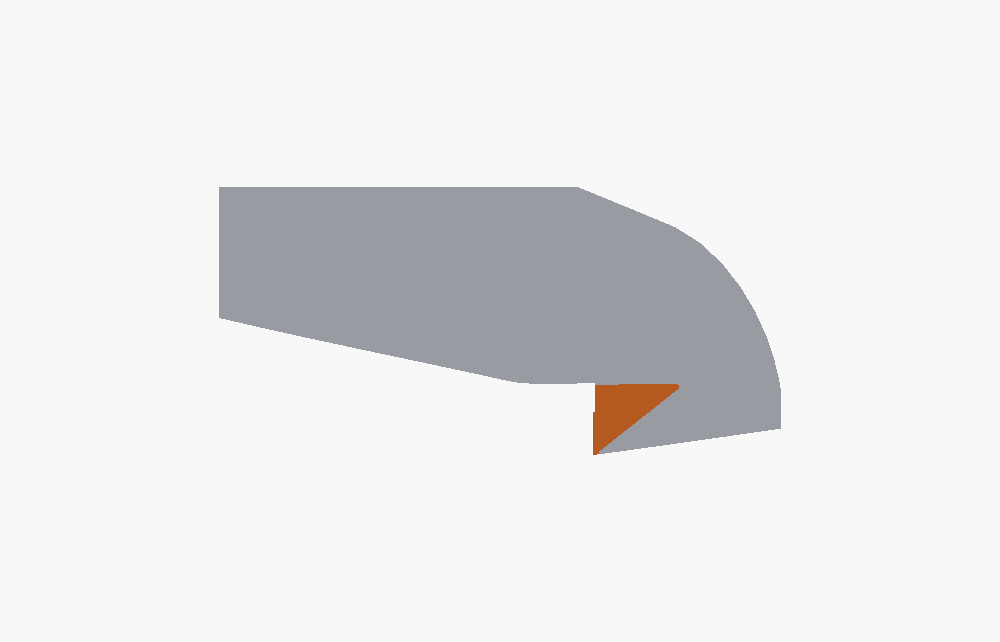
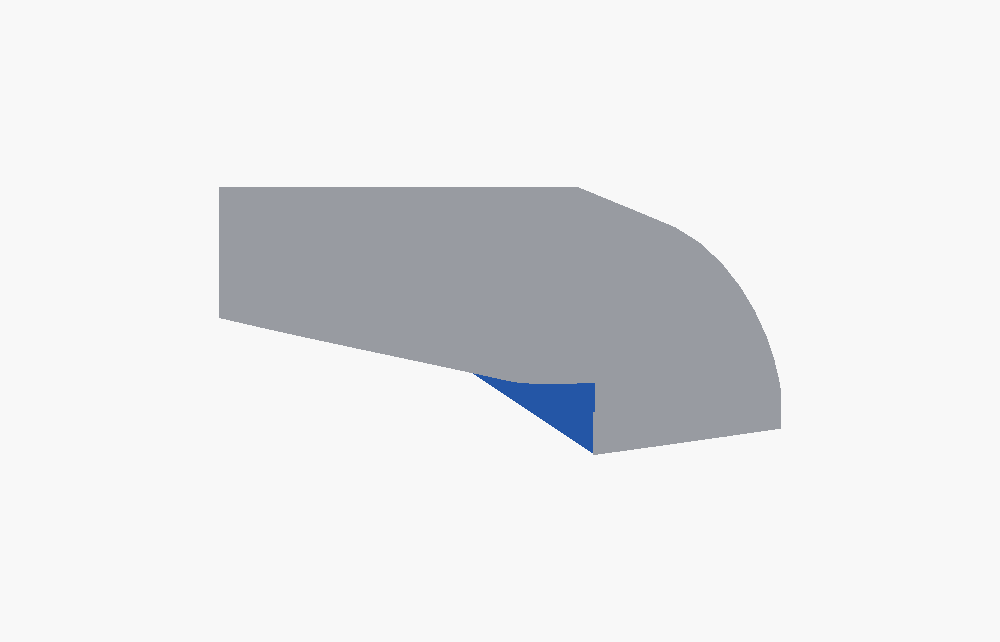
Trapezoid chamber leans along the whole chamber; one side-wall slider

Changed region(s): [[0.496, 0.5919, 0.682, 0.7165], [0.465, 0.5607, 0.496, 0.5919]]

diff --git a/docs/PARAMETERS.md b/docs/PARAMETERS.md
@@ -119,7 +119,7 @@ Presets: Alto `22` · Tenor `23` · Bari `24.1` · Soprano `17.8`.
 
 Cross-section of the chamber after the throat.
 
-Range: `round`, `square`, `horseshoe`.
+Range: `round`, `square`, `horseshoe`, `trapezoid`.
 
 Presets: Alto `horseshoe` · Tenor `round` · Bari `round` · Soprano `square`.
 
@@ -130,6 +130,10 @@ Presets: Alto `horseshoe` · Tenor `round` · Bari `round` · Soprano `square`.
 ![chamber_shape: horseshoe (the alto's) → square](images/params/chamber_shape-square.png)
 
 *`horseshoe` (the alto's) → `square`*
+
+![chamber_shape: horseshoe (the alto's) → trapezoid](images/params/chamber_shape-trapezoid.png)
+
+*`horseshoe` (the alto's) → `trapezoid`*
 
 ### Chamber width (`chamber_width`)
 
@@ -323,9 +327,9 @@ Presets: Alto `0` · Tenor `0` · Bari `0` · Soprano `0`.
 
 ### Baffle texture (`baffle_texture`)
 
-A texture on the baffle: grooves along it, across it, curved or slanted across it, or dimples.
+A texture on the baffle: grooves along it, grooves across it, or dimples.
 
-Range: `none`, `along`, `across`, `curved`, `chevron`, `dimples`.
+Range: `none`, `along`, `across`, `dimples`.
 
 Presets: Alto `none` · Tenor `none` · Bari `none` · Soprano `none`.
 
@@ -336,6 +340,14 @@ Texture cut into the baffle (engraved) or standing out of it (raised).
 Range: `engraved`, `raised`.
 
 Presets: Alto `engraved` · Tenor `engraved` · Bari `engraved` · Soprano `engraved`.
+
+### Texture width (`baffle_texture_thickness`)
+
+Width of each groove or dimple (mm); kept under the spacing, the depth giving way.
+
+Range: 0.3 to 4, step 0.05.
+
+Presets: Alto `2` · Tenor `2` · Bari `2` · Soprano `2`.
 
 ### Texture depth (`baffle_texture_depth`)
 
@@ -349,17 +361,41 @@ Presets: Alto `0.4` · Tenor `0.4` · Bari `0.4` · Soprano `0.4`.
 
 Distance between the grooves or dimples (mm).
 
-Range: 1.5 to 8, step 0.1.
+Range: 1 to 8, step 0.1.
 
 Presets: Alto `3` · Tenor `3` · Bari `3` · Soprano `3`.
 
+### How far across (`baffle_texture_extent`)
+
+How far across the baffle the texture reaches, as a share of its width (1 = wall to wall).
+
+Range: 0.2 to 1, step 0.05.
+
+Presets: Alto `1` · Tenor `1` · Bari `1` · Soprano `1`.
+
+### Groove shape (`baffle_texture_shape`)
+
+How grooves across bend, when they do: a smooth curve or a V.
+
+Range: `curved`, `v`.
+
+Presets: Alto `curved` · Tenor `curved` · Bari `curved` · Soprano `curved`.
+
 ### Groove bend (`baffle_texture_bend`)
 
-How much curved or slanted grooves bend: - the middle trails toward the shank, + it leads toward the tip.
+How much grooves across bend: - the middle trails toward the shank, + it leads toward the tip.
 
 Range: -1 to 1, step 0.05.
 
-Presets: Alto `0.5` · Tenor `0.5` · Bari `0.5` · Soprano `0.5`.
+Presets: Alto `0` · Tenor `0` · Bari `0` · Soprano `0`.
+
+### Bend change toward the tip (`baffle_texture_bend_change`)
+
+How the bend changes toward the tip end (added there, eased in along the baffle).
+
+Range: -2 to 2, step 0.05.
+
+Presets: Alto `0` · Tenor `0` · Bari `0` · Soprano `0`.
 
 ## Window
 
@@ -413,7 +449,7 @@ Presets: Alto `5.5` · Tenor `5.3` · Bari `6.3` · Soprano `4.8`.
 
 ### Chamber side walls (`sidewall_angle`)
 
-Chamber side walls over the window (degrees): + lean out (scooped), - lean in.
+Chamber side walls over the window (degrees): + lean out, - in; trapezoid: 10 more in.
 
 Range: -20 to 30, step 1.
 

diff --git a/docs/dev/GEOMETRY.md b/docs/dev/GEOMETRY.md
@@ -124,9 +124,12 @@ readout and the clearance report.
   thickness), then open out to the chamber width (`interior_points`); `sidewall_angle` (!= 0) leans
   them out or in from there (`sidewall_allowed`; leaning in, the window cutter's upper corners
   follow). The floor there is a 0.8mm skin above the facing that the window cutter removes.
-- **Trapezoid chamber** (issue #3): `chamber_shape = trapezoid` = the horseshoe section with
-  `sidewall_angle` -10 unless set (`eff_sidewall_angle`): walls wide at the window, leaning in toward
-  the rounded baffle side. Like all lean-in walls it acts under the window only.
+- **Trapezoid chamber** (issue #3): `chamber_shape = trapezoid` = the horseshoe section with its
+  side walls leaning in from the full chamber width above narrow_top, wide at the table and narrower
+  at the rounded baffle side (`trap_allowed`). The lean is `TRAPEZOID_LEAN` (10) degrees plus
+  `sidewall_angle` (one slider, no jump at 0): leaning in it acts along the whole chamber, faded in
+  from the throat to where the chamber has its shape (`trap_lean`, `TRAP_Z2`), so there is no step
+  at the window start; leaning out it is the window-only scoop. Never under 30% of the width.
 - **`chamber_height`** (0 = round) acts between the throat and the window: full after the first 40%
   of that stretch, faded out over its last <= 4mm; where the baffle is already the roof the floor
   takes all of it (`chamber_roof_share`), so its effect is modest (alto 8.7 -> 9.1 cm³ from 8 to

diff --git a/docs/GUIDE.md b/docs/GUIDE.md
@@ -137,7 +137,7 @@ settings are the bevel at the opening of the socket, the bore size and the angle
 **Chamber & baffle.** The inside of the mouthpiece, in four groups. *Baffle*: its shape, height and
 hump, and a texture on it (grooves along it, grooves across it, or dimples, engraved or raised, with
 their depth and spacing); More has where the baffle starts and how it curves. *Chamber*: its shape
-(round, square or horseshoe) and width; More has its height and floor, how it widens past the
+(round, square, horseshoe or trapezoid: a horseshoe with its sides leaning in) and width; More has its height and floor, how it widens past the
 throat and the angle of its side walls. *Throat*: its width; More has its position, the narrowing
 into it and its shape. *Window*: its width; More has its length and corners.
 
